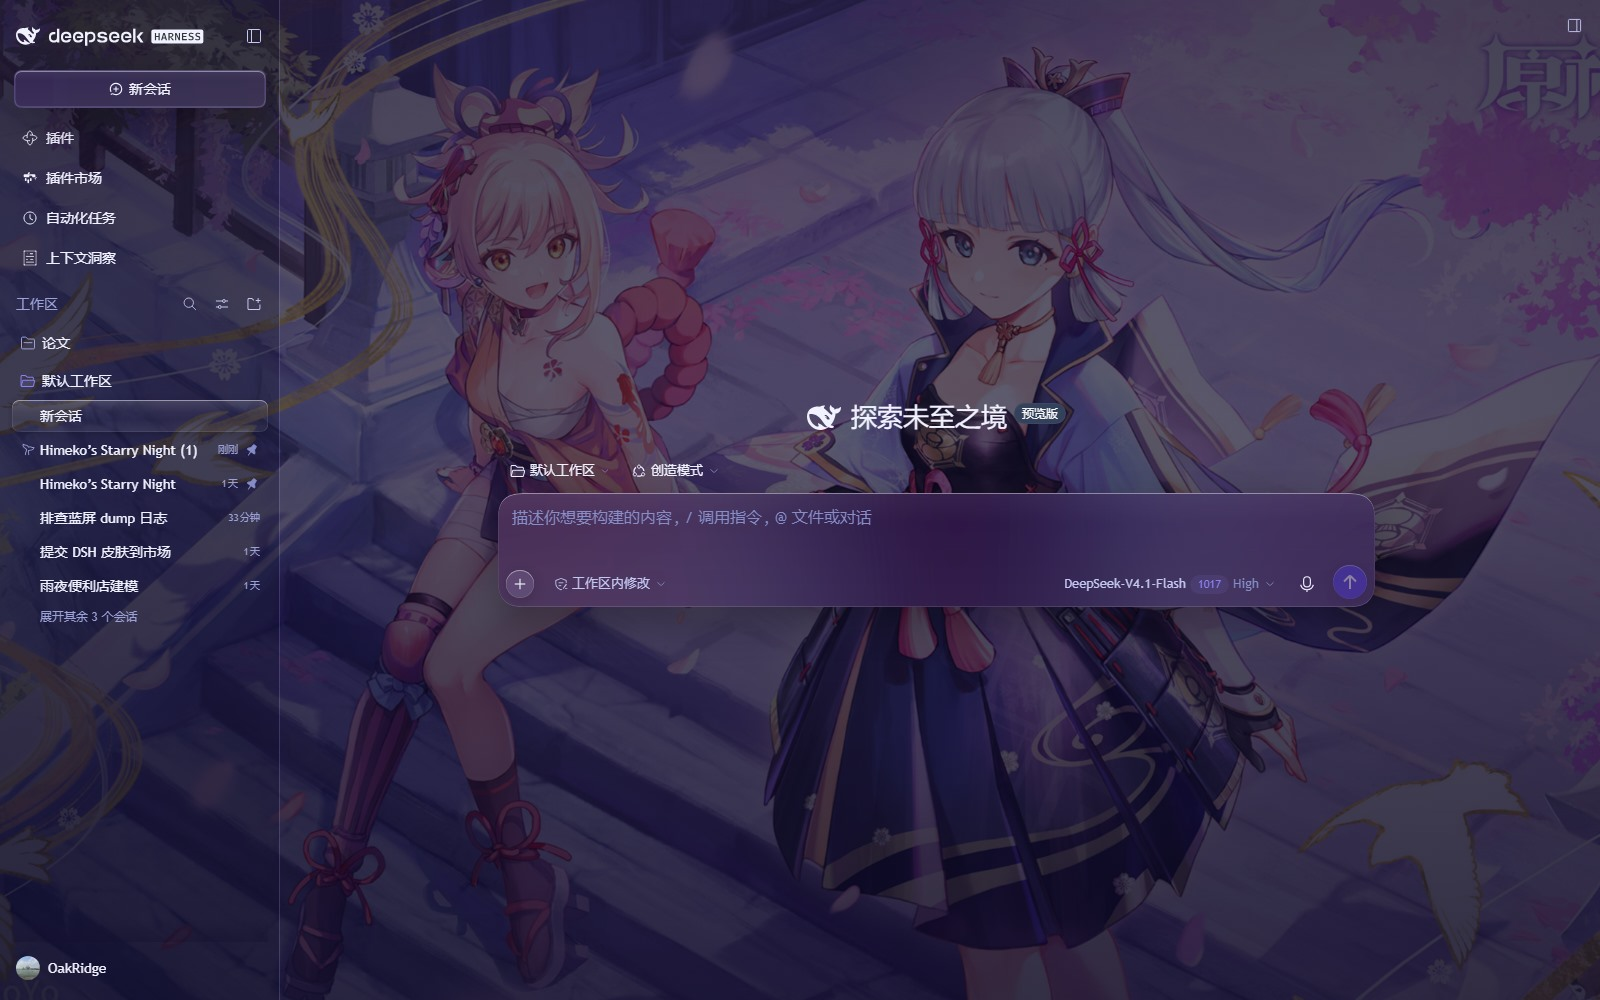
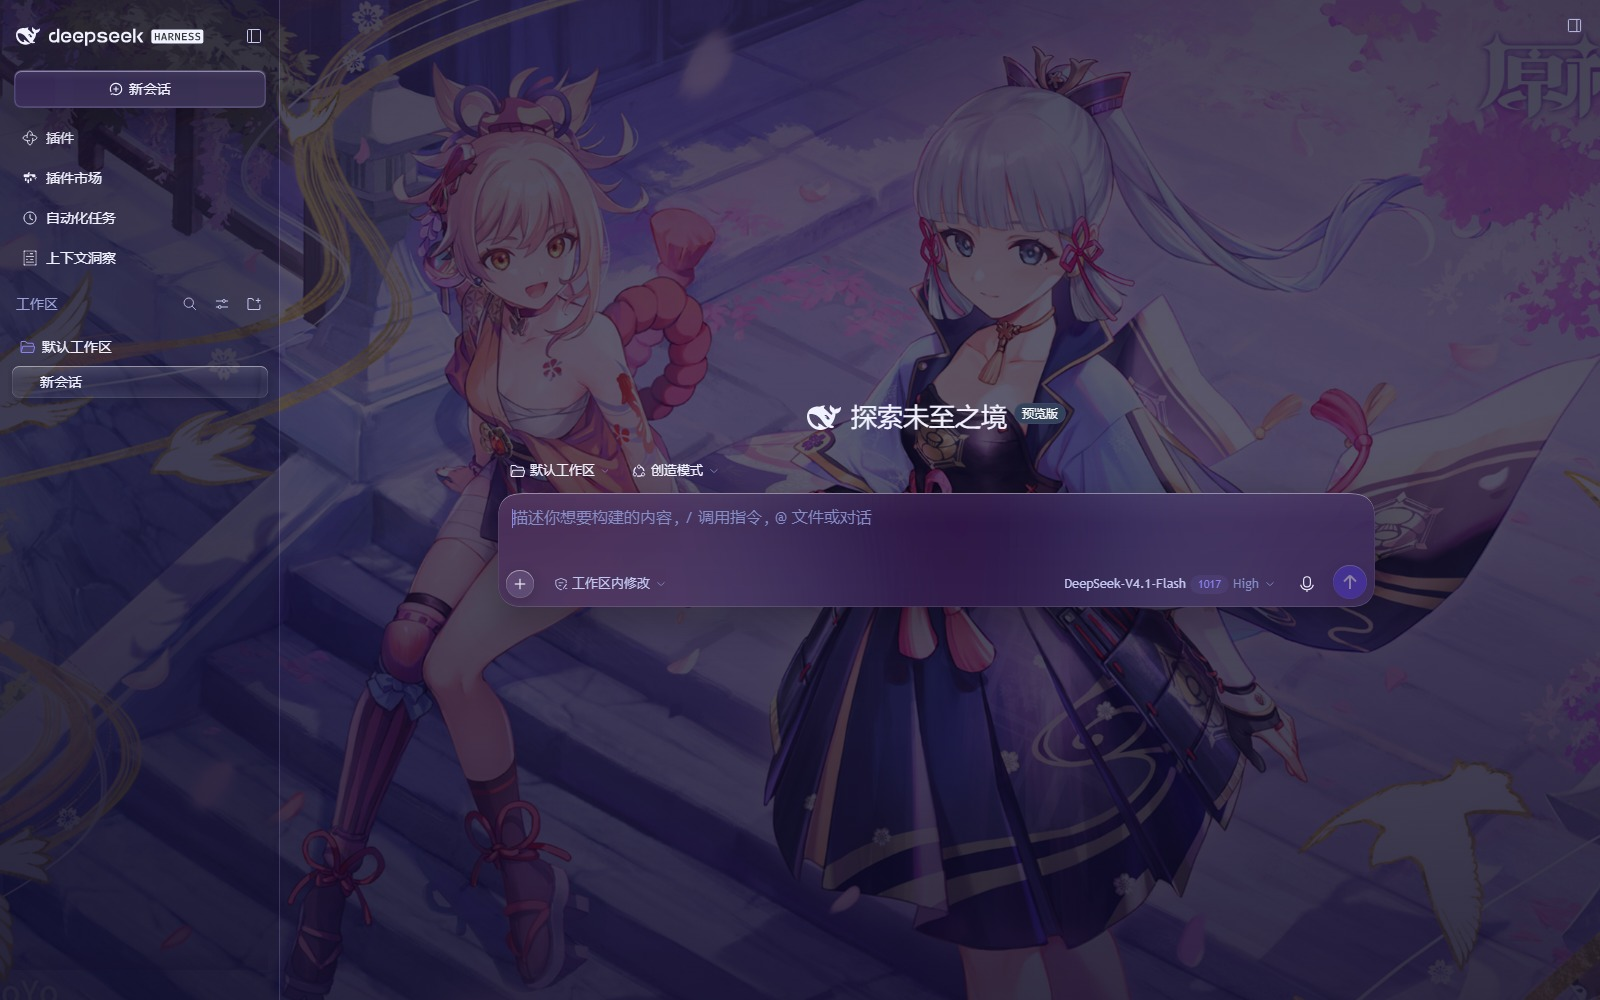
docs: 背景截图改为无个人信息的版本（1.1.0）

Changed region(s): [[0.0, 0.341, 0.1562, 0.62], [0.0, 0.961, 0.0625, 0.992]]

diff --git a/README.md b/README.md
@@ -46,16 +46,16 @@ DeepSeek Harness UI 的主题插件：星云壁纸 + 莫奈取色 + 液态玻璃
 
 ## 界面截图
 
-下面几张是浏览器版（`dsh web`）实拍，未做后期；桌面端的窗口标题栏按钮与启动屏略有不同，
-其余材质一致。
+下面几张是浏览器版（`dsh web`）实拍，未做后期——只隐去了侧栏里个人的会话条目与账号名；桌面端的
+窗口标题栏按钮与启动屏略有不同，其余材质一致。
 
 | 设置 · 关于 | 插件页 |
 | --- | --- |
 | ![设置里的「关于」栏：主题版本、壁纸与检查更新](preview-settings.png) | ![插件页：已安装的「姬子的星月夜」与实验性插件开关](preview-plugins.png) |
 
-| 自定义背景 · 照片 | 设置 · 背景（星辰画布） |
-| --- | --- |
-| ![把一张照片铺成整扇窗的宇宙：UI 色相跟着照片走](preview-background.jpg) | ![设置里的「背景」栏：预览、拖拽区与「恢复星云」](preview-background-settings.jpg) |
+把「背景」换成一张照片之后（同一套玻璃材质，色相跟着照片走）：
+
+![把一张照片铺成整扇窗的宇宙：UI 色相跟着照片走](preview-background.jpg)
 
 ## 已知限制
 
@@ -106,7 +106,7 @@ DeepSeek Harness UI 的主题插件：星云壁纸 + 莫奈取色 + 液态玻璃
   如果要二次分发或商用，请自行替换为拥有授权的图片。
 - **deepseek HARNESS 标志**（`assets/brand-lockup.svg`）与**鲸鱼尾巴加载动画**（`assets/whale-tail.png`）：
   取自 DeepSeek Harness 官方前端资源，版权归 DeepSeek 所有，这里只用于本主题的界面装饰。
-- **README 例图里的自定义背景**（`preview-background.jpg`、`preview-background-settings.jpg`）：
+- **README 例图里的自定义背景**（`preview-background.jpg`）：
   取自游戏《原神》的官方美术，版权归米哈游（miHoYo）所有，仅用于演示「自定义背景」效果。
 - 其余 CSS / JS 代码与 `icon.svg` 为本项目原创，使用 MIT 许可证。
 
@@ -134,6 +134,6 @@ dsh plugin add "D:\path\to\dsh-star-wallpaper"
 - `assets/brand-lockup.svg`：从官方品牌组件提取的 deepseek HARNESS 标志
 - `assets/whale-tail.png`：官方 28×28 鲸鱼尾巴 APNG（从 ui-chat 运行时样式提取）
 - `assets/whale-tail-still.svg`：同一只尾巴的静态 SVG（reduced-motion 回退）
-- `preview.png` / `preview-settings.png` / `preview-plugins.png` / `preview-background.jpg` /
-  `preview-background-settings.jpg`：README 里的界面截图（浏览器版）
+- `preview.png` / `preview-settings.png` / `preview-plugins.png` / `preview-background.jpg`：
+  README 里的界面截图（浏览器版，侧栏个人会话已隐去）
 - `cordis.patch.yml`：把本插件挂进 bundle
